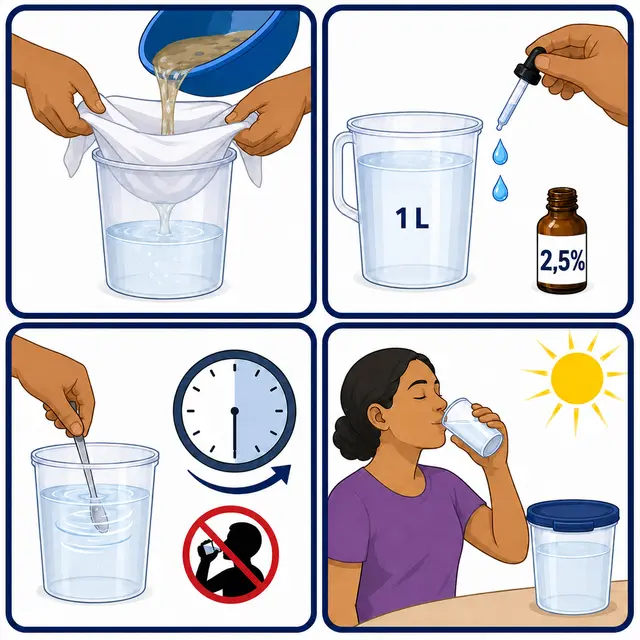
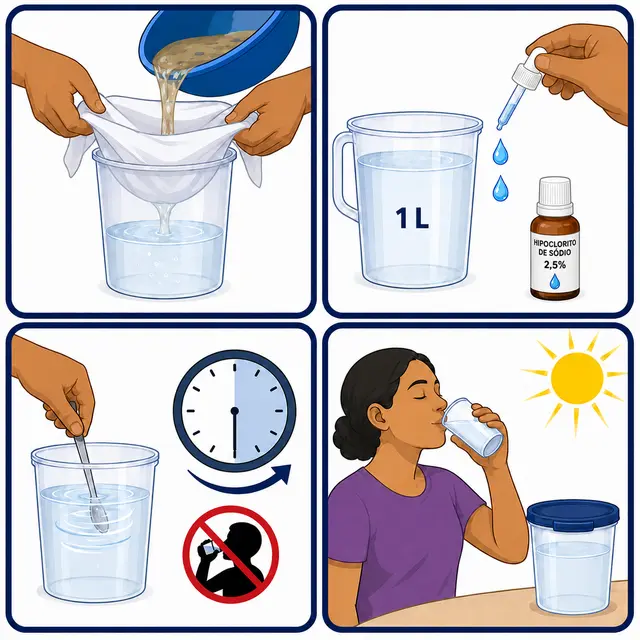
feat: detalha hipoclorito e tipos de insulina
Adota frasco de hipoclorito reconhecível sem logotipo institucional e cria sequências próprias para NPH, Regular e glargina.

diff --git a/src/data/treatment-guides.js b/src/data/treatment-guides.js
@@ -140,7 +140,7 @@ export const treatmentGuides = Object.freeze([
     title: 'Insulina NPH — frasco, seringa ou caneta',
     shortTitle: 'Insulina NPH',
     summary: 'A NPH é uma suspensão. O preparo, a seringa e a conservação dependem do produto fornecido.',
-    image: assetUrl('treatment-guides/insulin-steps.webp'),
+    image: assetUrl('treatment-guides/insulin-nph-steps.webp'),
     steps: [
       { title: 'Confira se é NPH', detail: 'Leia o rótulo. Confirme laboratório, apresentação, concentração e dose.' },
       { title: 'Misture com suavidade', detail: 'Homogeneíze como ensinado e como informa a bula. Não sacuda com força.' },
@@ -156,7 +156,7 @@ export const treatmentGuides = Object.freeze([
     title: 'Insulina Regular — frasco, seringa ou caneta',
     shortTitle: 'Insulina Regular',
     summary: 'A equipe deve escrever a dose e a relação com a refeição. Não use um horário genérico sem conferir a receita.',
-    image: assetUrl('treatment-guides/insulin-steps.webp'),
+    image: assetUrl('treatment-guides/insulin-regular-steps.webp'),
     steps: [
       { title: 'Confira se é Regular', detail: 'Leia o rótulo. Confirme laboratório, apresentação, concentração e dose.' },
       { title: 'Olhe a aparência', detail: 'A insulina Regular normalmente é transparente. Se estiver diferente da bula, não aplique antes de consultar a equipe.' },
@@ -173,7 +173,7 @@ export const treatmentGuides = Object.freeze([
     title: 'Insulina glargina — caneta',
     shortTitle: 'Insulina glargina',
     summary: 'A marca, a concentração e a conservação precisam ser conferidas no produto recebido.',
-    image: assetUrl('treatment-guides/insulin-steps.webp'),
+    image: assetUrl('treatment-guides/insulin-glargine-pen-steps.webp'),
     steps: [
       { title: 'Confira a caneta', detail: 'Leia nome, laboratório, concentração e dose. Existem apresentações diferentes.' },
       { title: 'Olhe a insulina', detail: 'Confira a aparência descrita na bula antes de aplicar.' },
@@ -194,12 +194,12 @@ export const treatmentGuides = Object.freeze([
     image: assetUrl('treatment-guides/safe-water-drops-steps.webp'),
     steps: [
       { title: 'Coe ou filtre', detail: 'Use filtro doméstico, coador de papel ou pano limpo.' },
-      { title: 'Veja a concentração', detail: 'Use somente hipoclorito de sódio próprio para tratamento de água e confira se a concentração é 2,5%.' },
+      { title: 'Reconheça o frasco', detail: 'O frasco entregue pela UBS costuma ser pequeno, âmbar e com tampa branca. A embalagem pode variar: leia no rótulo “Hipoclorito de sódio 2,5%” e confirme que é próprio para tratar água.' },
       { title: 'Pingue na medida certa', detail: 'Para hipoclorito a 2,5%, use 2 gotas em cada 1 litro de água filtrada.' },
       { title: 'Misture e espere', detail: 'Misture bem e espere 30 minutos antes de beber ou preparar alimentos.' },
       { title: 'Guarde tampada', detail: 'Mantenha a água tratada em recipiente limpo e tampado. Consuma em até 24 horas.' }
     ],
-    alerts: ['Não use produto perfumado, com corante ou concentração diferente.', 'Se não houver hipoclorito a 2,5%, abra o guia separado “Água por fervura”.'],
+    alerts: ['Prefira o frasco orientado ou entregue pela UBS. Não use produto perfumado, com corante ou concentração diferente.', 'Se não houver hipoclorito a 2,5%, abra o guia separado “Água por fervura”.'],
     sourceLabel: 'Cuidados com a água — Ministério da Saúde',
     sourceUrl: 'https://www.gov.br/saude/pt-br/assuntos/saude-de-a-a-z/e/enchentes/cuidados-com-a-agua'
   },

diff --git a/docs/TRATAMENTOS_ILUSTRADOS.md b/docs/TRATAMENTOS_ILUSTRADOS.md
@@ -37,6 +37,8 @@ Os campos nunca incluem nome, CPF ou diagnóstico. O rascunho usa somente o arma
 - Conservação da glargina, NPH e Regular depende da apresentação, do fabricante e da bula.
 - Dose, intervalo, duração e relação com refeições permanecem campos profissionais.
 - Os caminhos de tratamento da água com hipoclorito e com fervura aparecem em guias separados para evitar mistura das técnicas.
+- NPH, Regular e glargina usam sequências próprias: aparência e mistura da NPH, relação da Regular com a refeição conforme prescrição e preparo da caneta de glargina.
+- O hipoclorito é ilustrado como o frasco pequeno âmbar com tampa branca frequentemente entregue pela UBS, sem reproduzir logotipo institucional. A embalagem pode variar; o rótulo precisa informar `Hipoclorito de sódio 2,5%` e uso para tratamento da água.
 
 ## Fontes de referência
 
@@ -54,4 +56,4 @@ Os guias de spray nasal e creme vaginal exigem conferência da bula do produto e
 
 ## Imagens
 
-As ilustrações específicas de espaçador, bombinha sem espaçador, spray nasal, creme vaginal, insulina, pomada oftálmica e tratamento da água são originais e ficam em `src/assets/treatment-guides/`, otimizadas em WebP para carregamento no computador e no celular. Cada sequência usa uma ação principal por quadro e reduz dependência de texto. As capturas enviadas foram usadas apenas como referência de temas e problemas de comunicação. Nenhum desenho, logotipo, código ou ativo do site externo foi incorporado.
+As ilustrações específicas de espaçador, bombinha sem espaçador, spray nasal, creme vaginal, NPH, Regular, glargina, pomada oftálmica e tratamento da água são originais e ficam em `src/assets/treatment-guides/`, otimizadas em WebP para carregamento no computador e no celular. Cada sequência usa uma ação principal por quadro e reduz dependência de texto. As capturas enviadas foram usadas apenas como referência de temas e problemas de comunicação. Nenhum desenho, logotipo, código ou ativo do site externo foi incorporado.

diff --git a/design-qa.md b/design-qa.md
@@ -27,7 +27,7 @@ As oito capturas mostraram conteúdo estável, sem tela em branco, carregamento 
 
 ## Tratamentos ilustrados
 
-A rota `#/app/tratamentos` adiciona onze orientações de leitura fácil para ACS, Médica(o) e Enfermeira(o), com busca, filtros, leitura em voz alta, confirmação por demonstração e personalização clínica temporária. As ilustrações autorais de espaçador, bombinha sem espaçador, spray nasal, creme vaginal, insulina, pomada oftálmica e tratamento da água foram revisadas. No guia do espaçador, a bombinha está conectada, não há mão duplicada e as setas apontam da bombinha para a boca; os dois caminhos de tratamento da água aparecem separados.
+A rota `#/app/tratamentos` adiciona onze orientações de leitura fácil para ACS, Médica(o) e Enfermeira(o), com busca, filtros, leitura em voz alta, confirmação por demonstração e personalização clínica temporária. As ilustrações autorais de espaçador, bombinha sem espaçador, spray nasal, creme vaginal, NPH, Regular, glargina, pomada oftálmica e tratamento da água foram revisadas. No guia do espaçador, a bombinha está conectada, não há mão duplicada e as setas apontam da bombinha para a boca; os dois caminhos de tratamento da água aparecem separados; o frasco de hipoclorito segue o formato frequentemente entregue pela UBS, sem logotipo institucional.
 
 Essa rota ainda não está publicada e, portanto, não faz parte das oito evidências autenticadas acima. Sua QA permanece pendente em desktop e celular; contratos automatizados não substituem essa inspeção visual.
 
